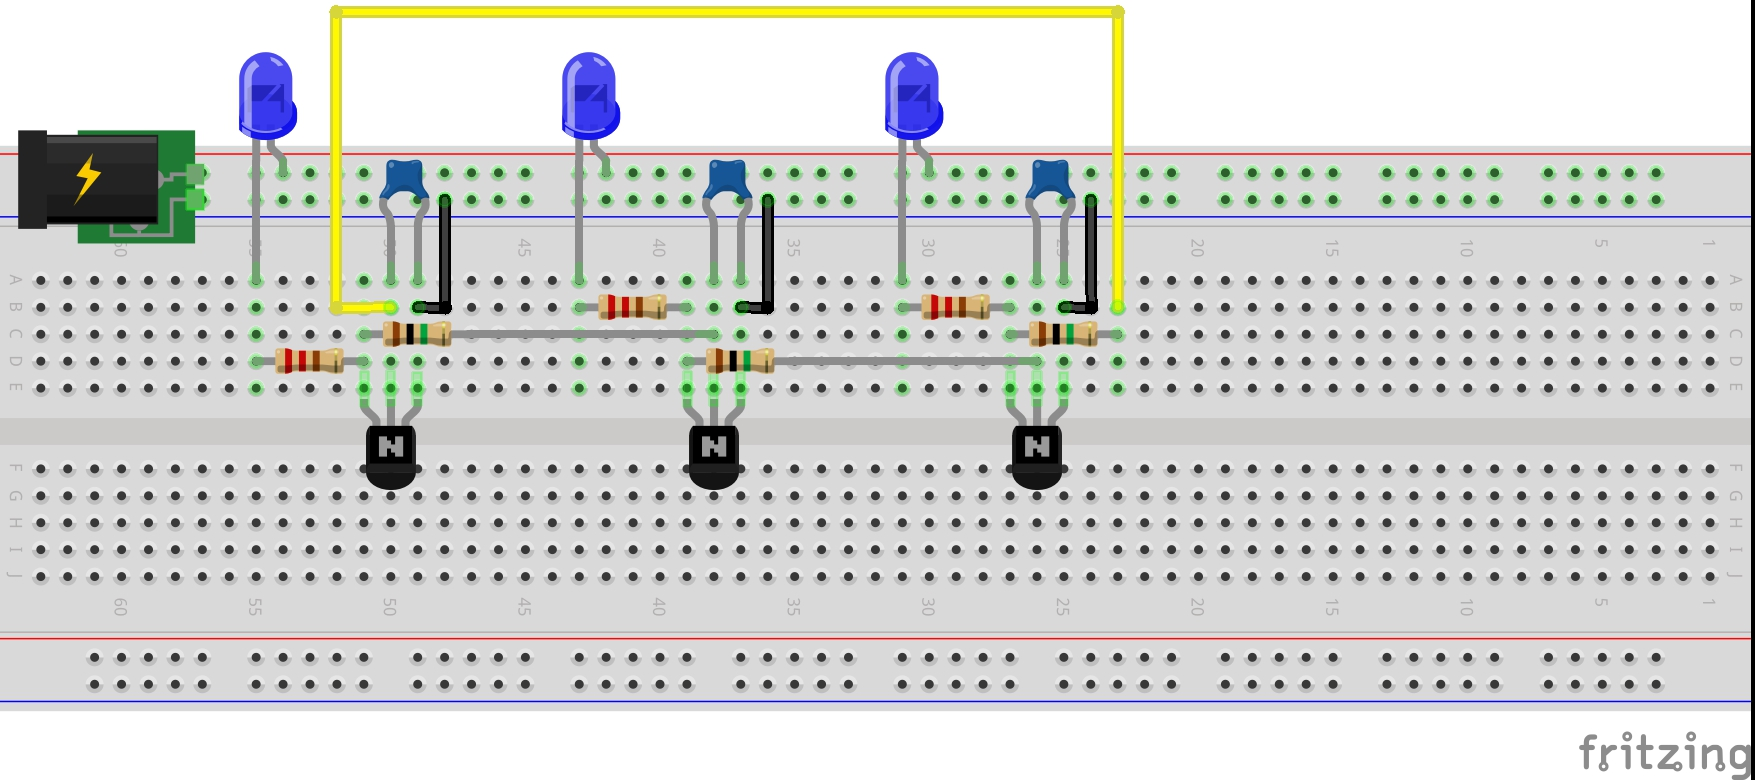
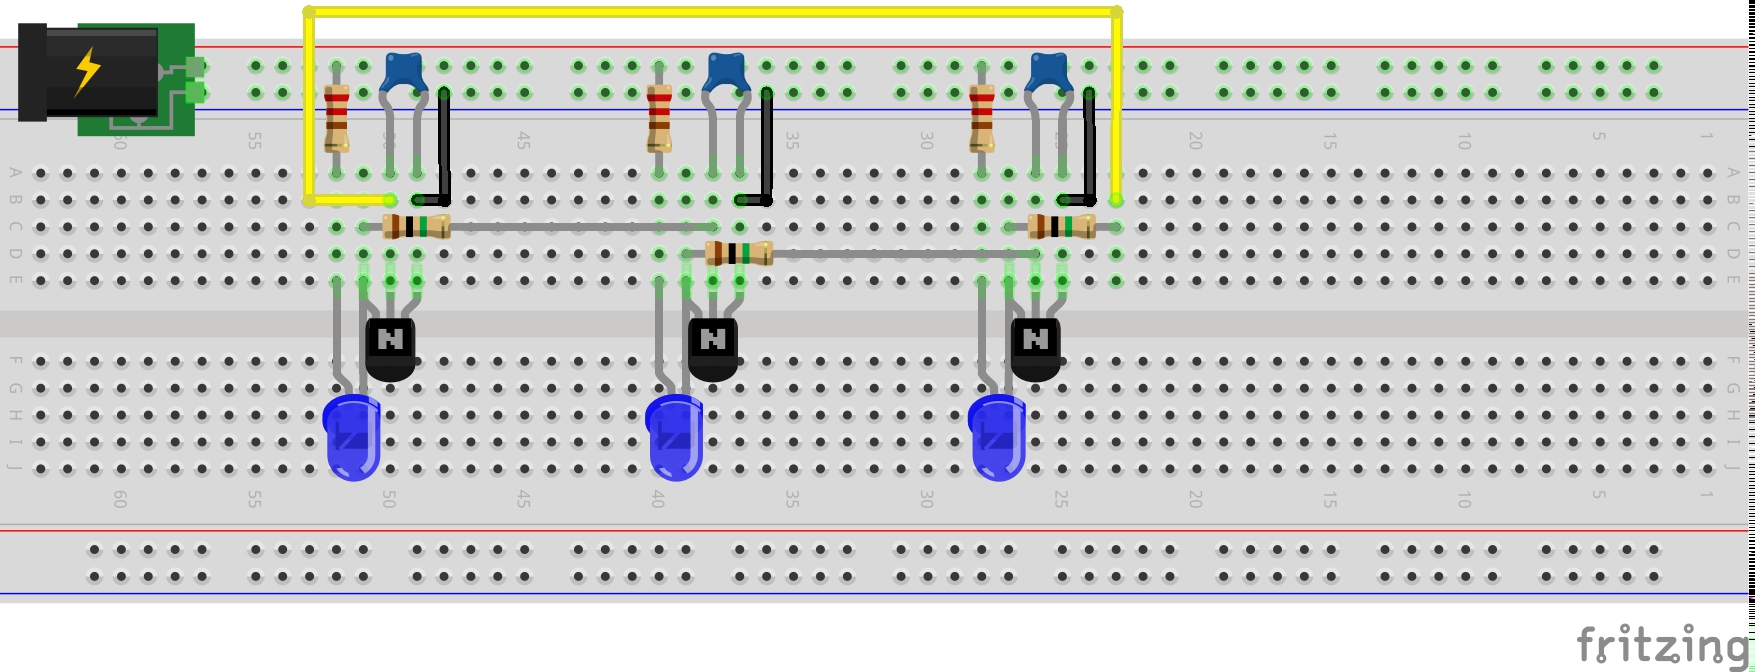
[WatsonLedRing] update with 3v & freeform build

diff --git a/Electronics101/WatsonLedRing/README.md b/Electronics101/WatsonLedRing/README.md
@@ -2,10 +2,11 @@
 
 Test a Watson 3-LED Ring oscillator.
 
+![The Build](./assets/WatsonLedRing_build.jpg?raw=true)
+
 Here's a quick video of the circuit in action:
 
-[![WatsonLedRing](https://img.youtube.com/vi/Guscsbysltw/0.jpg)](https://www.youtube.com/watch?v=Guscsbysltw)
-
+[![WatsonLedRing](https://img.youtube.com/vi/U6qPxcxIn7U/0.jpg)](https://www.youtube.com/watch?v=U6qPxcxIn7U)
 
 ## Notes
 
@@ -20,16 +21,50 @@ In practice I haven't seen any issues getting the oscillation started.
 
 This runs at 5V nicely, which is enough to exceed the LED forward voltage with sufficient headroom to turn on the FETs hard enough.
 
-Since 5V is a bit inconvenient to packaging, it's possible to run off a lower voltage by adding 22kΩ resistors in parallel with the LEDs.
-In this configuration, I was able to get by with as low as 3V.
-
 ## Construction
 
 ![Breadboard](./assets/WatsonLedRing_bb.jpg?raw=true)
 
 ![The Schematic](./assets/WatsonLedRing_schematic.jpg?raw=true)
 
+![WatsonLedRing_bb_build](./assets/WatsonLedRing_bb_build.jpg?raw=true)
+
+Here's a quick video of the circuit running on a breadboard:
+
+[![WatsonLedRing](https://img.youtube.com/vi/Guscsbysltw/0.jpg)](https://www.youtube.com/watch?v=Guscsbysltw)
+
+
+## Running at 3V
+
+Since 5V is a bit inconvenient to package, it's possible to run off a lower voltage by adding 22kΩ resistors in parallel with the LEDs.
+It also helps to switch to LEDs with a lower forward voltage.
+
+I tested a this configuration with green LEDs, I was able to get it running very nicely on a 3V coin cell.
+
+![Breadboard](./assets/WatsonLedRing3V_bb.jpg?raw=true)
+
+![The Schematic](./assets/WatsonLedRing3V_schematic.jpg?raw=true)
+
+![WatsonLedRing3V_bb_build](./assets/WatsonLedRing3V_bb_build.jpg?raw=true)
+
+Here's a quick video of the 3V circuit running on a breadboard:
+
+[![WatsonLedRing](https://img.youtube.com/vi/AgwLT4MlFh8/0.jpg)](https://www.youtube.com/watch?v=AgwLT4MlFh8)
+
+
+## Freeform Build
+
+
+This is a quick freeform build that arranges the 3-LED ring in a circular frame that holds a CR2032 coin cell
+
+![WatsonLedRing3V_build_complete](./assets/WatsonLedRing3V_build_complete.jpg?raw=true)
+
 ![The Build](./assets/WatsonLedRing_build.jpg?raw=true)
 
+Here's a quick video of the circuit in action:
+
+[![WatsonLedRing](https://img.youtube.com/vi/U6qPxcxIn7U/0.jpg)](https://www.youtube.com/watch?v=U6qPxcxIn7U)
+
 ## Credits and References
+
 * [Watson’s 3 LED Ring Oscillator](http://rustybolt.info/wordpress/?p=664) - blog post describing the original circuit
